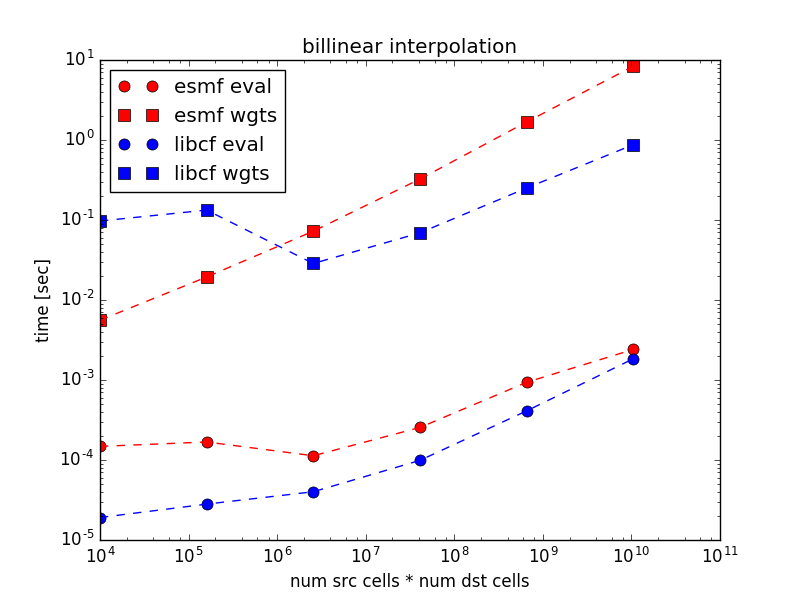
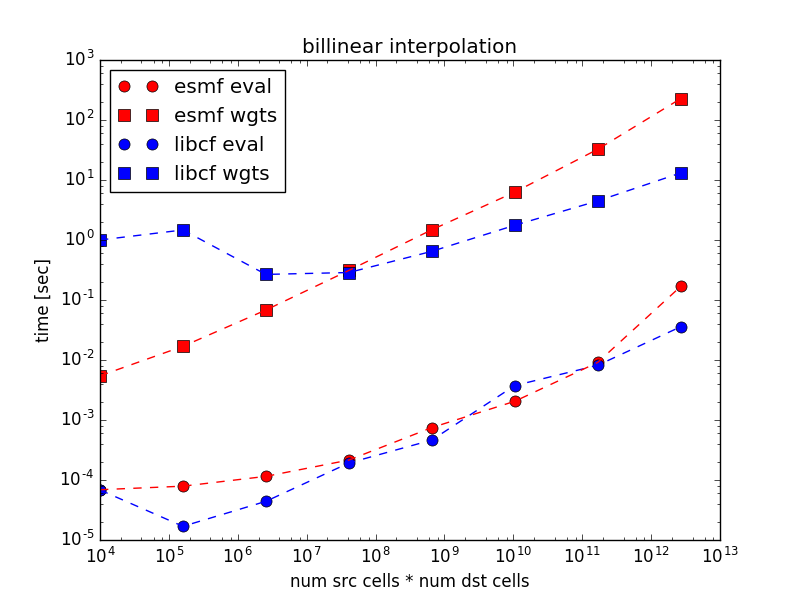
new results, increased nitermax and decreased tol

diff --git a/rotated_pole/libcf_interp.py b/rotated_pole/libcf_interp.py
@@ -12,9 +12,9 @@ parser.add_argument('--src_file', type=str, dest='src_file', default='src.nc',
                     help='Source data file name')
 parser.add_argument('--dst_file', type=str, dest='dst_file', default='dst.nc',
                     help='Destination data file name')
-parser.add_argument('--tolpos', type=float, dest='tolpos', default=1.e-8,
+parser.add_argument('--tolpos', type=float, dest='tolpos', default=1.e-6,
                     help='Tolerance in target space')
-parser.add_argument('--nitermax', type=int, dest='nitermax', default=100,
+parser.add_argument('--nitermax', type=int, dest='nitermax', default=1000,
                     help='Max number of iterations')
 parser.add_argument('--plot', dest='plot', action='store_true', help='Plot')
 
